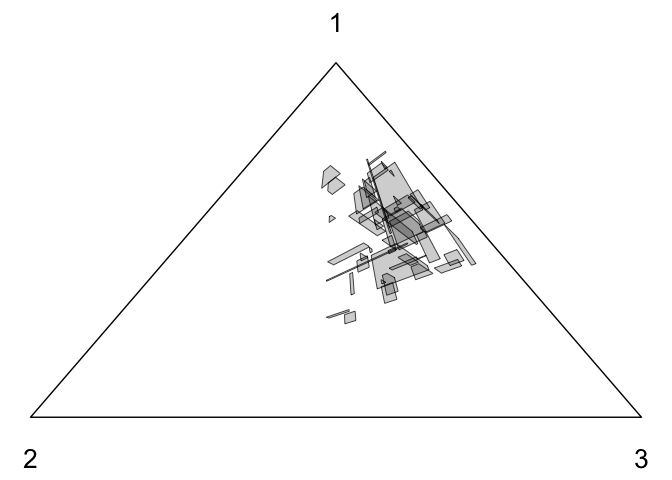
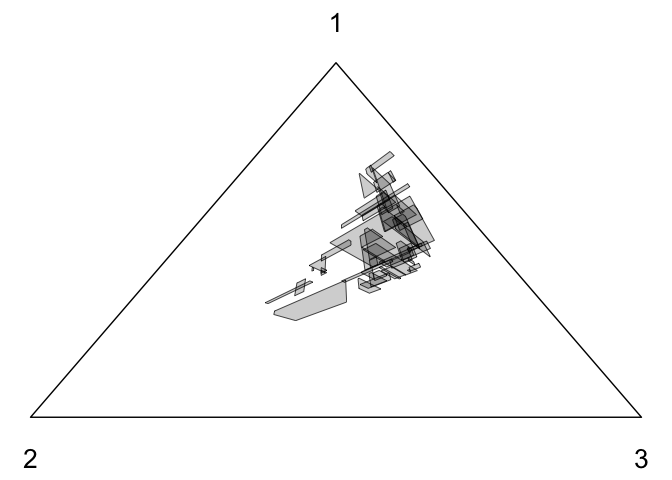
some fixes in gibbs sampling, meeting times, and rejection sampling

Changed region(s): [[0.4062, 0.3125, 0.7188, 0.6875]]

diff --git a/README.md b/README.md
@@ -66,55 +66,59 @@ counts <- c(10, 4, 7)
 # number of MCMC iterations
 niterations <- 100
 # run Gibbs sampler
-gibbs_results <- gibbs_sampler(niterations, counts)
-# obtain a K x K matrix representing a convex polytope in the simplex
-# by taking the terminal iteration of the Gibbs chain
-eta <- gibbs_results$etas[niterations,,]
+gibbs_results <- gibbs_sampler_v2(niterations, counts)
+# obtain a K x K matrix representing a convex polytope in the simplex by taking
+# the terminal iteration of the Gibbs chain
+eta <- gibbs_results$etas[niterations, , ]
 # convert polytope to H-representation and V-representation
 eta_converted <- etas2vertices(eta)
-# H-representation, or "half-plane" representation
-# means the set is represented as points x such that 'constr' times x <= 'rhs' 
+# H-representation, or 'half-plane' representation means the set is represented
+# as points x such that 'constr' times x <= 'rhs'
 eta_converted$constr
 #> $constr
-#>            [,1]      [,2]
-#>  [1,]  1.000000  1.000000
-#>  [2,] -1.000000  0.000000
-#>  [3,]  0.000000 -1.000000
-#>  [4,] -0.344655  1.000000
-#>  [5,] -1.608173 -1.000000
-#>  [6,]  1.000000 -3.351633
-#>  [7,] -1.000000 -6.775739
-#>  [8,]  3.394207  2.394207
-#>  [9,]  1.271098  2.271098
+#>             [,1]      [,2]
+#>  [1,]  1.0000000  1.000000
+#>  [2,] -1.0000000  0.000000
+#>  [3,]  0.0000000 -1.000000
+#>  [4,] -0.4637037  1.000000
+#>  [5,] -2.0297893 -1.000000
+#>  [6,]  1.0000000 -2.586375
+#>  [7,] -1.0000000 -7.083083
+#>  [8,]  2.5324235  1.532424
+#>  [9,]  0.8408546  1.840855
 #> 
 #> $rhs
-#> [1]  1.000000  0.000000  0.000000  0.000000 -1.000000  0.000000 -1.000000
-#> [8]  2.394207  1.271098
+#> [1]  1.0000000  0.0000000  0.0000000  0.0000000 -1.0000000  0.0000000 -1.0000000
+#> [8]  1.5324235  0.8408546
 #> 
 #> $dir
 #> [1] "<=" "<=" "<=" "<=" "<=" "<=" "<=" "<=" "<="
-# V-representation, or "vertex" representation
-# means the set is represented by its vertices
+# V-representation, or 'vertex' representation means the set is represented by
+# its vertices
 eta_converted$vertices_barcoord
 #>           [,1]      [,2]      [,3]
-#> [1,] 0.5120778 0.1764902 0.3114321
-#> [2,] 0.5245116 0.1564944 0.3189940
-#> [3,] 0.5827381 0.1738669 0.2433950
-#> [4,] 0.5674307 0.1955678 0.2370015
-# next we can view the K-simplex as a triangle, with K = 3 here
-# and the feasible polytopes as polygons within the triangle
+#> [1,] 0.4010438 0.1859655 0.4129907
+#> [2,] 0.4138335 0.1600052 0.4261613
+#> [3,] 0.4725307 0.2191142 0.3083551
+#> [4,] 0.4903878 0.1896043 0.3200080
+# next we can view the K-simplex as a triangle, with K = 3 here and the
+# feasible polytopes as polygons within the triangle
 gs <- set_custom_theme()
 g <- create_plot_triangle(gs)
 cvxpolytope_cartesian.df <- data.frame()
-for (iter in 51:100){
-  cvx <- etas2vertices(gibbs_results$etas[iter,,])
-  cvx_cartesian <- t(apply(cvx$vertices_barcoord, 1, function(row) barycentric2cartesian(row, gs$v_cartesian)))
-  average_ <- colMeans(cvx_cartesian)
-  o_ <- order(apply(sweep(cvx_cartesian, 2, average_, "-"), 1, function(v) atan2(v[2], v[1])))
-  cvx_cartesian <- cvx_cartesian[o_,]
-  cvxpolytope_cartesian.df <- rbind(cvxpolytope_cartesian.df, data.frame(cvx_cartesian, iter = iter))
+for (iter in 51:100) {
+    cvx <- etas2vertices(gibbs_results$etas[iter, , ])
+    cvx_cartesian <- t(apply(cvx$vertices_barcoord, 1, function(row) barycentric2cartesian(row,
+        gs$v_cartesian)))
+    average_ <- colMeans(cvx_cartesian)
+    o_ <- order(apply(sweep(cvx_cartesian, 2, average_, "-"), 1, function(v) atan2(v[2],
+        v[1])))
+    cvx_cartesian <- cvx_cartesian[o_, ]
+    cvxpolytope_cartesian.df <- rbind(cvxpolytope_cartesian.df, data.frame(cvx_cartesian,
+        iter = iter))
 }
-gpolytopes <- g + geom_polygon(data = cvxpolytope_cartesian.df, aes(x = X1, y = X2, group = iter), size = 0.25, alpha = .2, fill = 'black', colour = 'black')
+gpolytopes <- g + geom_polygon(data = cvxpolytope_cartesian.df, aes(x = X1, y = X2,
+    group = iter), size = 0.25, alpha = 0.2, fill = "black", colour = "black")
 gpolytopes
 ```
 
